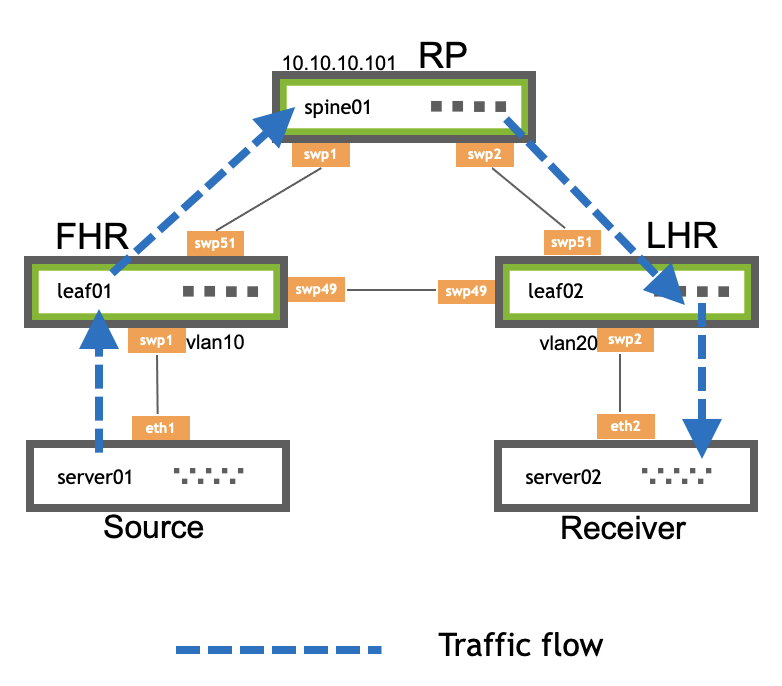
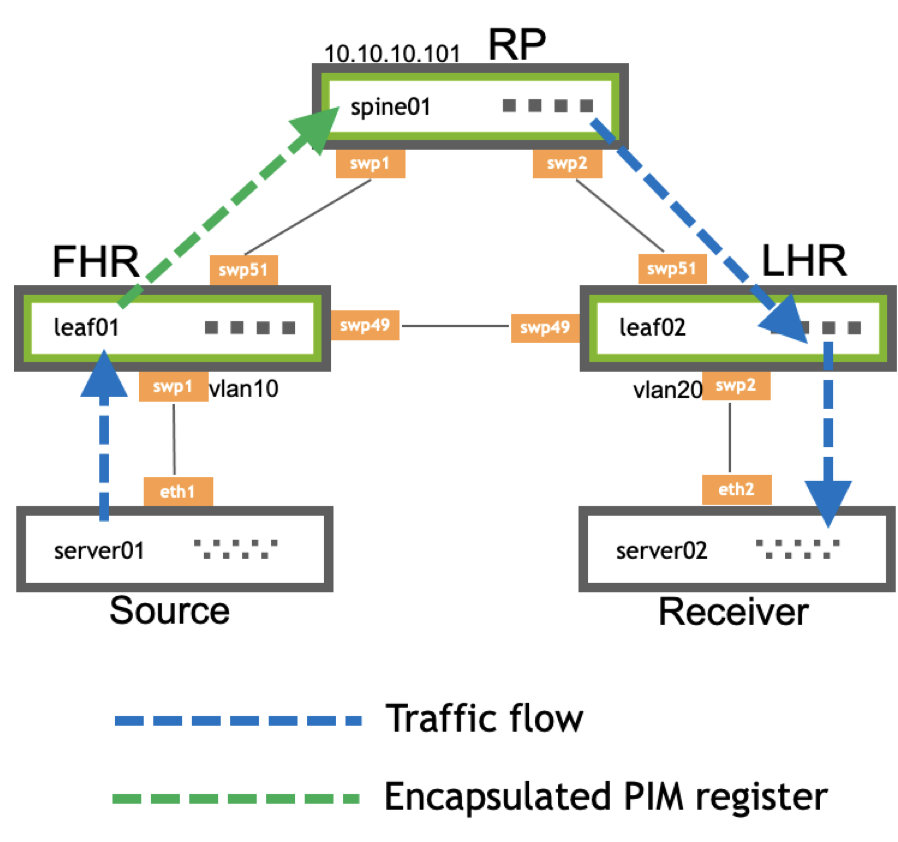
updates to config example

diff --git a/content/cumulus-linux-44/Layer-3/Protocol-Independent-Multicast-PIM.md b/content/cumulus-linux-44/Layer-3/Protocol-Independent-Multicast-PIM.md
@@ -909,14 +909,14 @@ IP Multicast Routing Table
 Flags: S - Sparse, C - Connected, P - Pruned
        R - RP-bit set, F - Register flag, T - SPT-bit set
 
-Source          Group        Proto  Input       Output    TTL  Uptime
-10.1.10.101     239.1.1.1    none   vlan10      none       0   00:01:03
+Source          Group           Flags    Proto  Input            Output           TTL  Uptime
+10.1.10.101     239.1.1.1       SFP      none   vlan10           none             0    --:--:-- 
 ```
 
 ```
 cumulus@fhr:~$ net show pim upstream
-Iif    Source      Group     State Uptime  JoinTimer RSTimer  KATimer  RefCnt
-vlan10 10.1.10.101 239.1.1.1 Prune 00:07:40 --:--:-- 00:00:36 00:02:50 1
+Iif    Source        Group     State   Uptime    JoinTimer  RSTimer   KATimer   RefCnt
+vlan10 10.1.10.101   239.1.1.1 Prune   00:07:40  --:--:--   00:00:36  00:02:50  1
 ```
 
 ```
@@ -934,8 +934,9 @@ vlan10               up        10.1.10.1         0            local    1        
 
 ```
 cumulus@fhr:~$ net show pim state
-Source           Group            IIF    OIL
-10.1.10.101      239.1.1.1        vlan10
+Codes: J -> Pim Join, I -> IGMP Report, S -> Source, * -> Inherited from (*,G), V -> VxLAN, M -> Muted
+Active Source           Group            RPT  IIF               OIL
+1      10.1.10.101      239.1.1.1        n    vlan10 
 ```
 
 ```
@@ -954,44 +955,10 @@ Uptime    : --:--:--
 Elections : 1
 Changes   : 0
 
-
-Hellos
-------
-Period         : 30
-Timer          : 00:00:02
-StatStart      : 05:05:59
-Receive        : 0
-Receive Failed : 0
-Send           : 612
-Send Failed    : 0
-Generation ID  : 0931e911
-
-
-Flags
------
-All Multicast   : no
-Broadcast       : yes
-Deleted         : no
-Interface Index : 59
-Multicast       : yes
-Multicast Loop  : 0
-Promiscuous     : no
-
-
-Join Prune Interval
--------------------
-LAN Delay                    : yes
-Effective Propagation Delay  : 0 msec
-Effective Override Interval  : 0 msec
-Join Prune Override Interval : 0 msec
-
-
-LAN Prune Delay
----------------
-Propagation Delay           : 500 msec
-Propagation Delay (Highest) : 0 msec
-Override Interval           : 2500 msec
-Override Interval (Highest) : 0 msec 
+FHR - First Hop Router
+----------------------
+239.1.1.1 : 10.1.10.101 is a source, uptime is 00:03:08
+...
 ```
 
 The RP does not include an mroute state but the `net show pim upstream` output includes the Source and Group:
@@ -1004,7 +971,7 @@ Source          Group           Proto  Input      Output     TTL  Uptime
 ```
 cumulus@rp01:~$ net show pim upstream
 Iif             Source          Group           State       Uptime   JoinTimer RSTimer   KATimer   RefCnt
-lo              10.1.10.101     239.1.1.1       Prune       05:07:32 --:--:--  --:--:--  00:02:46  1 
+swp51           10.1.10.101     239.1.1.1       Prune       05:07:32 --:--:--  --:--:--  00:02:46  1 
 ```
 
 As a receiver joins the group, the mroute output interface on the FHR transitions from *none* to the [RPF](## "Reverse Path Forwarding") interface of the RP:
@@ -1042,7 +1009,7 @@ Source          Group           Proto  Input      Output     TTL  Uptime
 ```
 cumulus@rp01:~$ net show pim upstream
 Iif       Source          Group           State       Uptime   JoinTimer RSTimer   KATimer   RefCnt
-lo        *               239.1.1.1       Joined      00:10:01 00:00:59  --:--:--  --:--:--       1
+swp51        *               239.1.1.1       Joined      00:10:01 00:00:59  --:--:--  --:--:--       1
 ```
 
 ```
@@ -1093,8 +1060,9 @@ swp51           *               239.1.1.1       J           05:26:05 00:00:32  -
 
 ```
 cumulus@lhr:~$ net show pim upstream-join-desired
-Interface Source          Group           LostAssert Joins PimInclude JoinDesired EvalJD
-vlan20       *            239.2.2.2       no         no    yes        yes         yes
+Source          Group           EvalJD
+*               239.1.1.1       yes   
+10.1.10.101     239.1.1.1       yes 
 ```
 
 ```
@@ -1559,9 +1527,13 @@ The following example configures PIM on leaf01 (the [FHR](## "First Hop Router")
 - spine01 connects to leaf02 (the LHR) through swp2.
 - leaf02 connects to server02 (the receiver) through a VLAN-aware bridge (VLAN 20).
 
-| Traffic flow  |     |
+| Traffic Flow along the Shared Tree |     |
 | ------------- | --- |
-| {{< figure src = "/images/cumulus-linux/pim-config-example.png" >}} | **1**. server01 is the source, which sends traffic to leaf01, the FHR.<br><br>**2**. leaf01 has the *,G route indicating that it must forward traffic towards spine01.<br><br>**3**. spine01 is the RP, which receives multicast data and forwards traffic down a shared distribution tree to the receiver through leaf02, the LHR.<br><br>**4**. leaf02 forwards the traffic directly to the attached interested multicast receiver, server02. |
+| {{< figure src = "/images/cumulus-linux/pim-config-example.png" >}} | **1**. The FHR (leaf01) receives a multicast data packet from the source, encapsulates the packet in a unicast PIM register message, then sends it to the RP (spine01)<br><br>**2**. The RP builds an (S,G) mroute, decapsulates the multicast packet, then forwards it along the (*,G) tree towards the receiver (server02).<br><br>**3**. The LHR (leaf02) receives multicast traffic and sees that it has a shorter path to the source. It requests the multicast stream from leaf01 and simultaneously sends the multicast stream to the receiver.|
+
+| Traffic Flow for the Shortest Path Tree |     |
+| ------------- | --- |
+| {{< figure src = "/images/cumulus-linux/pim-config-example2.png" >}} | **1**. The FHR (leaf01) hears a PIM join directly from the LHR (leaf02) and forwards multicast traffic directly to leaf02.<br><br>**2**. leaf02 receives the multicast packet both from leaf01 and spine01, discards the packet from spine01, and prunes itself from the RP.<br><br>**3**. spine01 receives a prune message from leaf02 and instructs the FHR to stop sending PIM register messages<br><br>**4**. Traffic continues directly between leaf01 and leaf02. |
 
 <!-- vale off -->
 {{< tabs "TabID1395 ">}}
@@ -1582,8 +1554,8 @@ cumulus@leaf01:~$ net add bgp neighbor swp51 remote-as external
 cumulus@leaf01:~$ net add bgp ipv4 unicast network 10.10.10.1/32
 cumulus@leaf01:~$ net add bgp ipv4 unicast network 10.1.10.0/24
 cumulus@leaf01:~$ net add loopback lo pim
-cumulus@leaf01:~$ net add interface swp1 pim
 cumulus@leaf01:~$ net add interface swp51 pim
+cumulus@leaf01:~$ net add vlan 10 pim
 cumulus@leaf01:~$ net add vlan 10 igmp
 cumulus@leaf01:~$ net add pim rp 10.10.10.101
 cumulus@leaf01:~$ net commit
@@ -1604,8 +1576,8 @@ cumulus@leaf02:~$ net add bgp neighbor swp51 remote-as external
 cumulus@leaf02:~$ net add bgp ipv4 unicast network 10.10.10.2/32
 cumulus@leaf02:~$ net add bgp ipv4 unicast network 10.2.10.0/24
 cumulus@leaf02:~$ net add loopback lo pim
-cumulus@leaf02:~$ net add interface swp2 pim
 cumulus@leaf02:~$ net add interface swp51 pim
+cumulus@leaf02:~$ net add vlan 20 pim
 cumulus@leaf02:~$ net add vlan 20 igmp
 cumulus@leaf02:~$ net add pim rp 10.10.10.101
 cumulus@leaf02:~$ net commit
